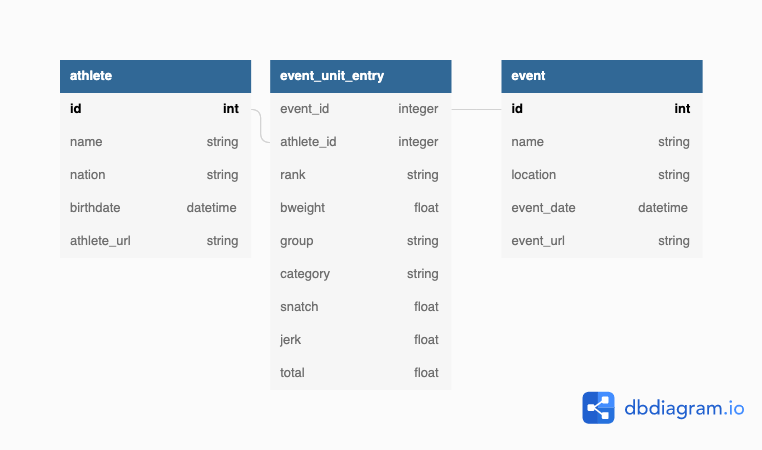
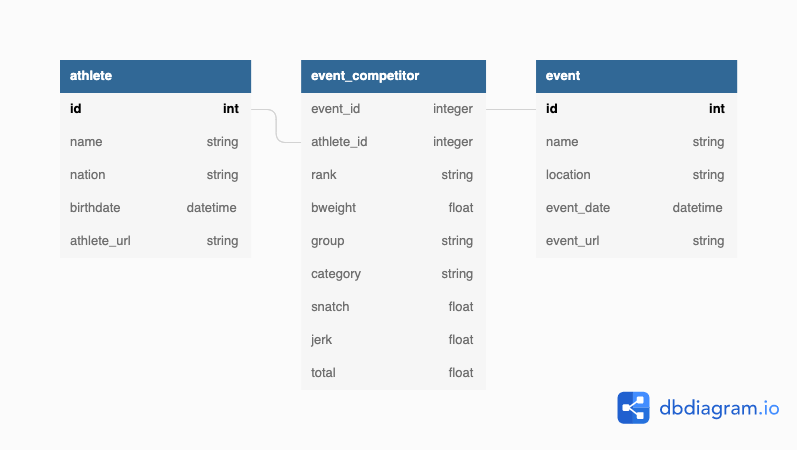
Changed naming

diff --git a/db/schema.rb b/db/schema.rb
@@ -18,7 +18,7 @@ ActiveRecord::Schema[7.0].define(version: 2022_05_25_195316) do
     t.string "name"
     t.string "nation"
     t.datetime "born"
-    t.string "url"
+    t.string "athlete_url"
     t.datetime "created_at", null: false
     t.datetime "updated_at", null: false
   end
@@ -27,6 +27,7 @@ ActiveRecord::Schema[7.0].define(version: 2022_05_25_195316) do
     t.string "rank"
     t.float "bweight"
     t.string "group"
+    t.string "category"
     t.float "snatch"
     t.float "jerk"
     t.float "total"
@@ -40,7 +41,7 @@ ActiveRecord::Schema[7.0].define(version: 2022_05_25_195316) do
     t.string "name"
     t.string "location"
     t.datetime "event_date"
-    t.string "url"
+    t.string "event_url"
     t.datetime "created_at", null: false
     t.datetime "updated_at", null: false
   end

diff --git a/db/migrate/20220525195316_create_event_competitors.rb b/db/migrate/20220525195316_create_event_competitors.rb
@@ -4,6 +4,7 @@ class CreateEventCompetitors < ActiveRecord::Migration[7.0]
       t.string :rank
       t.float :bweight
       t.string :group
+      t.string :category
       t.float :snatch
       t.float :jerk
       t.float :total

diff --git a/db/migrate/20220525191617_create_events.rb b/db/migrate/20220525191617_create_events.rb
@@ -4,7 +4,7 @@ class CreateEvents < ActiveRecord::Migration[7.0]
       t.string :name
       t.string :location
       t.datetime :event_date
-      t.string :url
+      t.string :event_url
 
       t.timestamps
     end

diff --git a/db/migrate/20220525191932_create_athletes.rb b/db/migrate/20220525191932_create_athletes.rb
@@ -4,7 +4,7 @@ class CreateAthletes < ActiveRecord::Migration[7.0]
       t.string :name
       t.string :nation
       t.datetime :born
-      t.string :url
+      t.string :athlete_url
 
       t.timestamps
     end

diff --git a/README.md b/README.md
@@ -7,5 +7,3 @@
 ## Full build (hopefully): 
 ![ERD 2](./public/twler_backend2.png)
 
-## Keys
-pid	gender	rank	rank_s	rank_cj	lname	fname	born	nation	category	bweight	snatch1	snatch2	snatch3	snatch	jerk1	jerk2	jerk3	jerk	total	event	date	sinclair total
